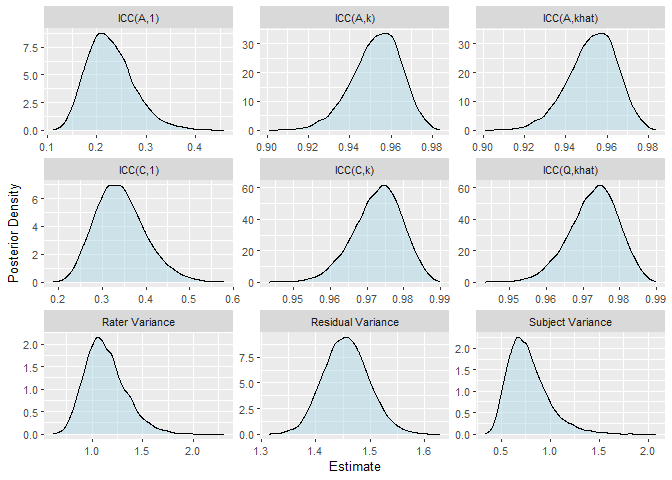
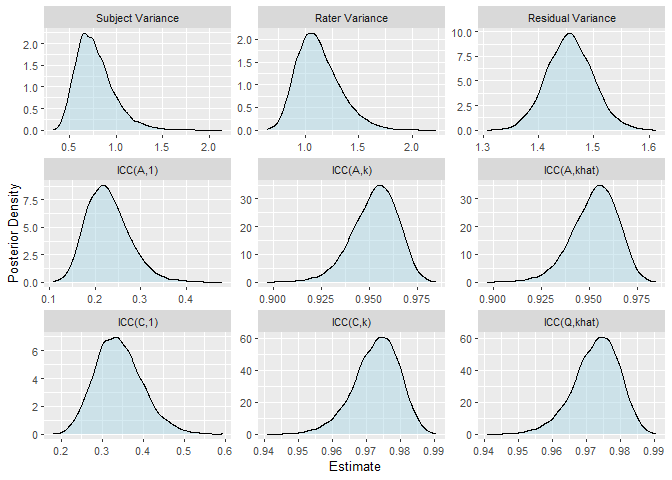
Renumber models

diff --git a/README.md b/README.md
@@ -26,14 +26,16 @@ In the `ppa` example dataset, 72 human “raters” judged the perceived
 physical attractiveness of 36 human “targets” in 6 different conditions
 (i.e., stimulus “types”).
 
-### Simple Generalizability Study
-
 ``` r
 library(varde)
 
 # Extract only type 1 observations (to simplify the example)
 ppa_type1 <- ppa[ppa$Type == 1, ]
+```
 
+### Simple Generalizability Study
+
+``` r
 # Fit a mixed effects model with target and rater effects
 fit_1 <- brms::brm(
   formula = Score ~ 1 + (1 | Target) + (1 | Rater),
@@ -77,30 +79,30 @@ plot(res_1, type = "river")
 
 ``` r
 # Calculate variance components and ICCs
-res_3 <- calc_icc(
+res_2 <- calc_icc(
   .data = ppa_type1, 
   subject = "Target",
   rater = "Rater",
   score = "Score"
 )
-res_3
+res_2
 #> # A tibble: 9 × 6
 #>   term                est lower upper raters error   
 #>   <chr>             <dbl> <dbl> <dbl>  <dbl> <chr>   
-#> 1 Subject Variance  0.672 0.471 1.27      NA <NA>    
-#> 2 Rater Variance    1.06  0.800 1.59      NA <NA>    
+#> 1 Subject Variance  0.658 0.464 1.26      NA <NA>    
+#> 2 Rater Variance    1.06  0.803 1.59      NA <NA>    
 #> 3 Residual Variance 1.46  1.38  1.54      NA <NA>    
-#> 4 ICC(A,1)          0.210 0.150 0.335      1 Absolute
-#> 5 ICC(A,k)          0.957 0.927 0.973     72 Absolute
-#> 6 ICC(A,khat)       0.957 0.927 0.973     72 Absolute
-#> 7 ICC(C,1)          0.320 0.244 0.468      1 Relative
-#> 8 ICC(C,k)          0.975 0.959 0.984     72 Relative
-#> 9 ICC(Q,khat)       0.975 0.959 0.984     72 Relative
+#> 4 ICC(A,1)          0.217 0.150 0.333      1 Absolute
+#> 5 ICC(A,k)          0.955 0.927 0.973     72 Absolute
+#> 6 ICC(A,khat)       0.955 0.927 0.973     72 Absolute
+#> 7 ICC(C,1)          0.333 0.241 0.465      1 Relative
+#> 8 ICC(C,k)          0.974 0.958 0.984     72 Relative
+#> 9 ICC(Q,khat)       0.974 0.958 0.984     72 Relative
 ```
 
 ``` r
 # Create density plot of all posteriors
-plot(res_3, components = "all")
+plot(res_2, components = "all")
 ```
 
 ![](man/figures/README-p2-1.png)<!-- -->
